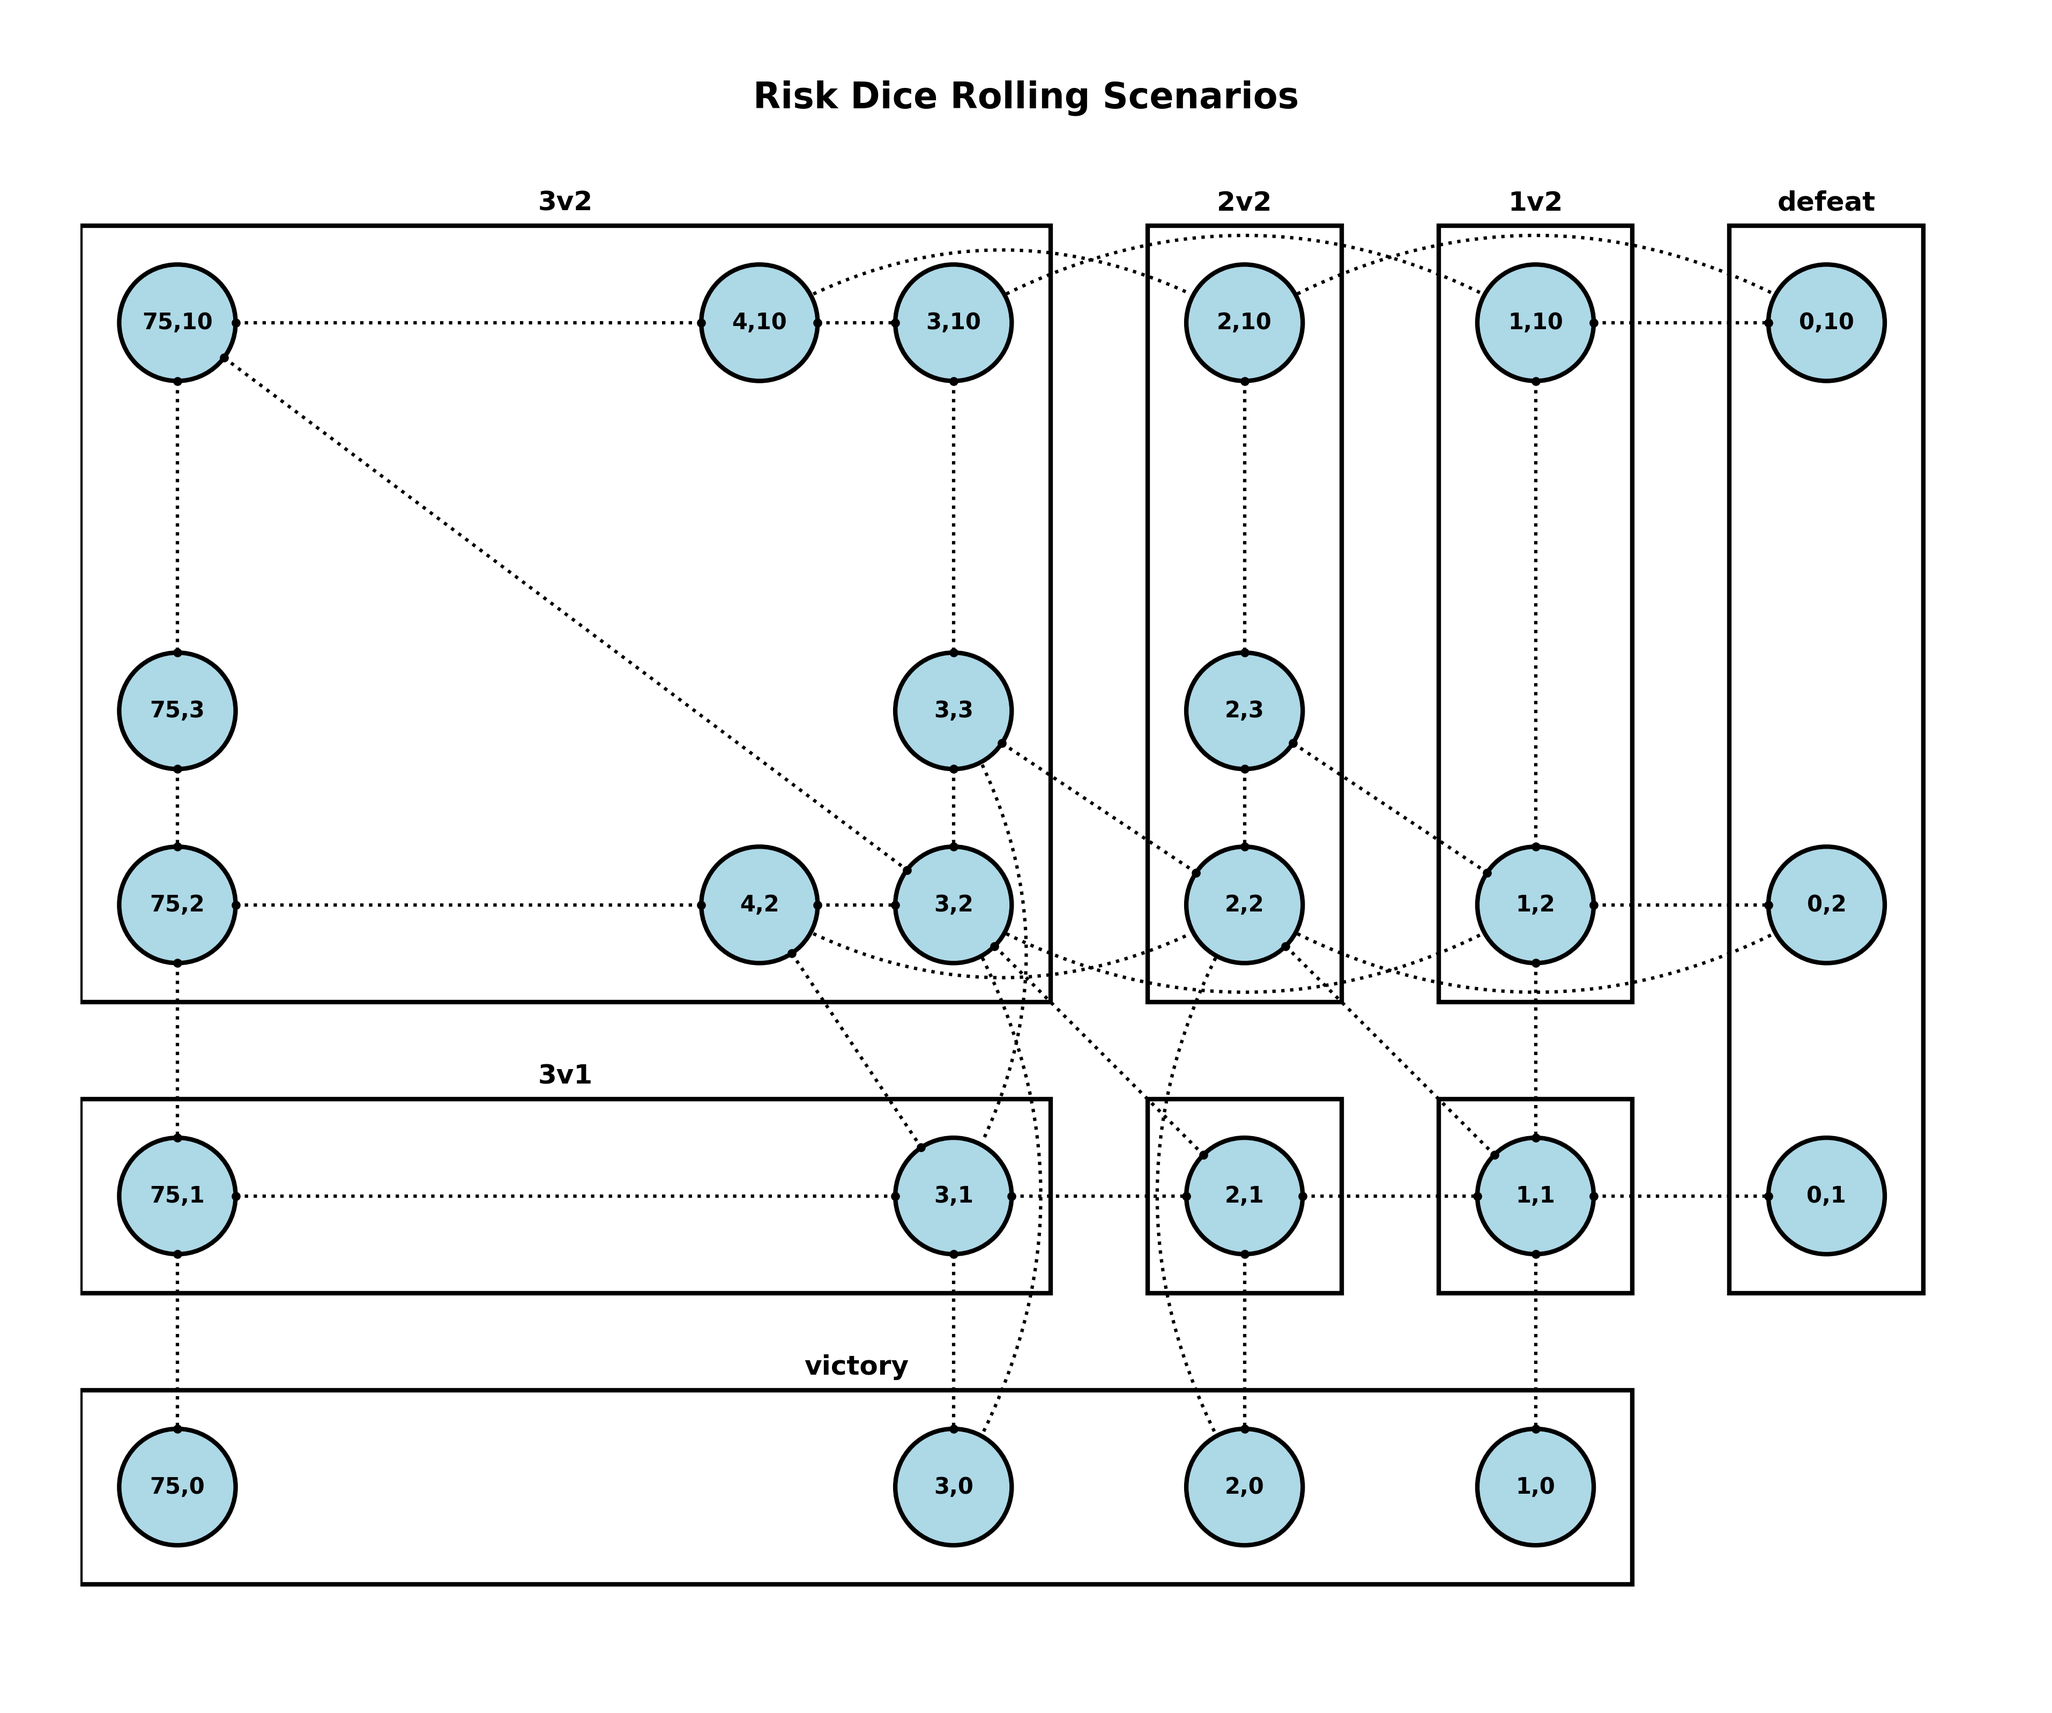
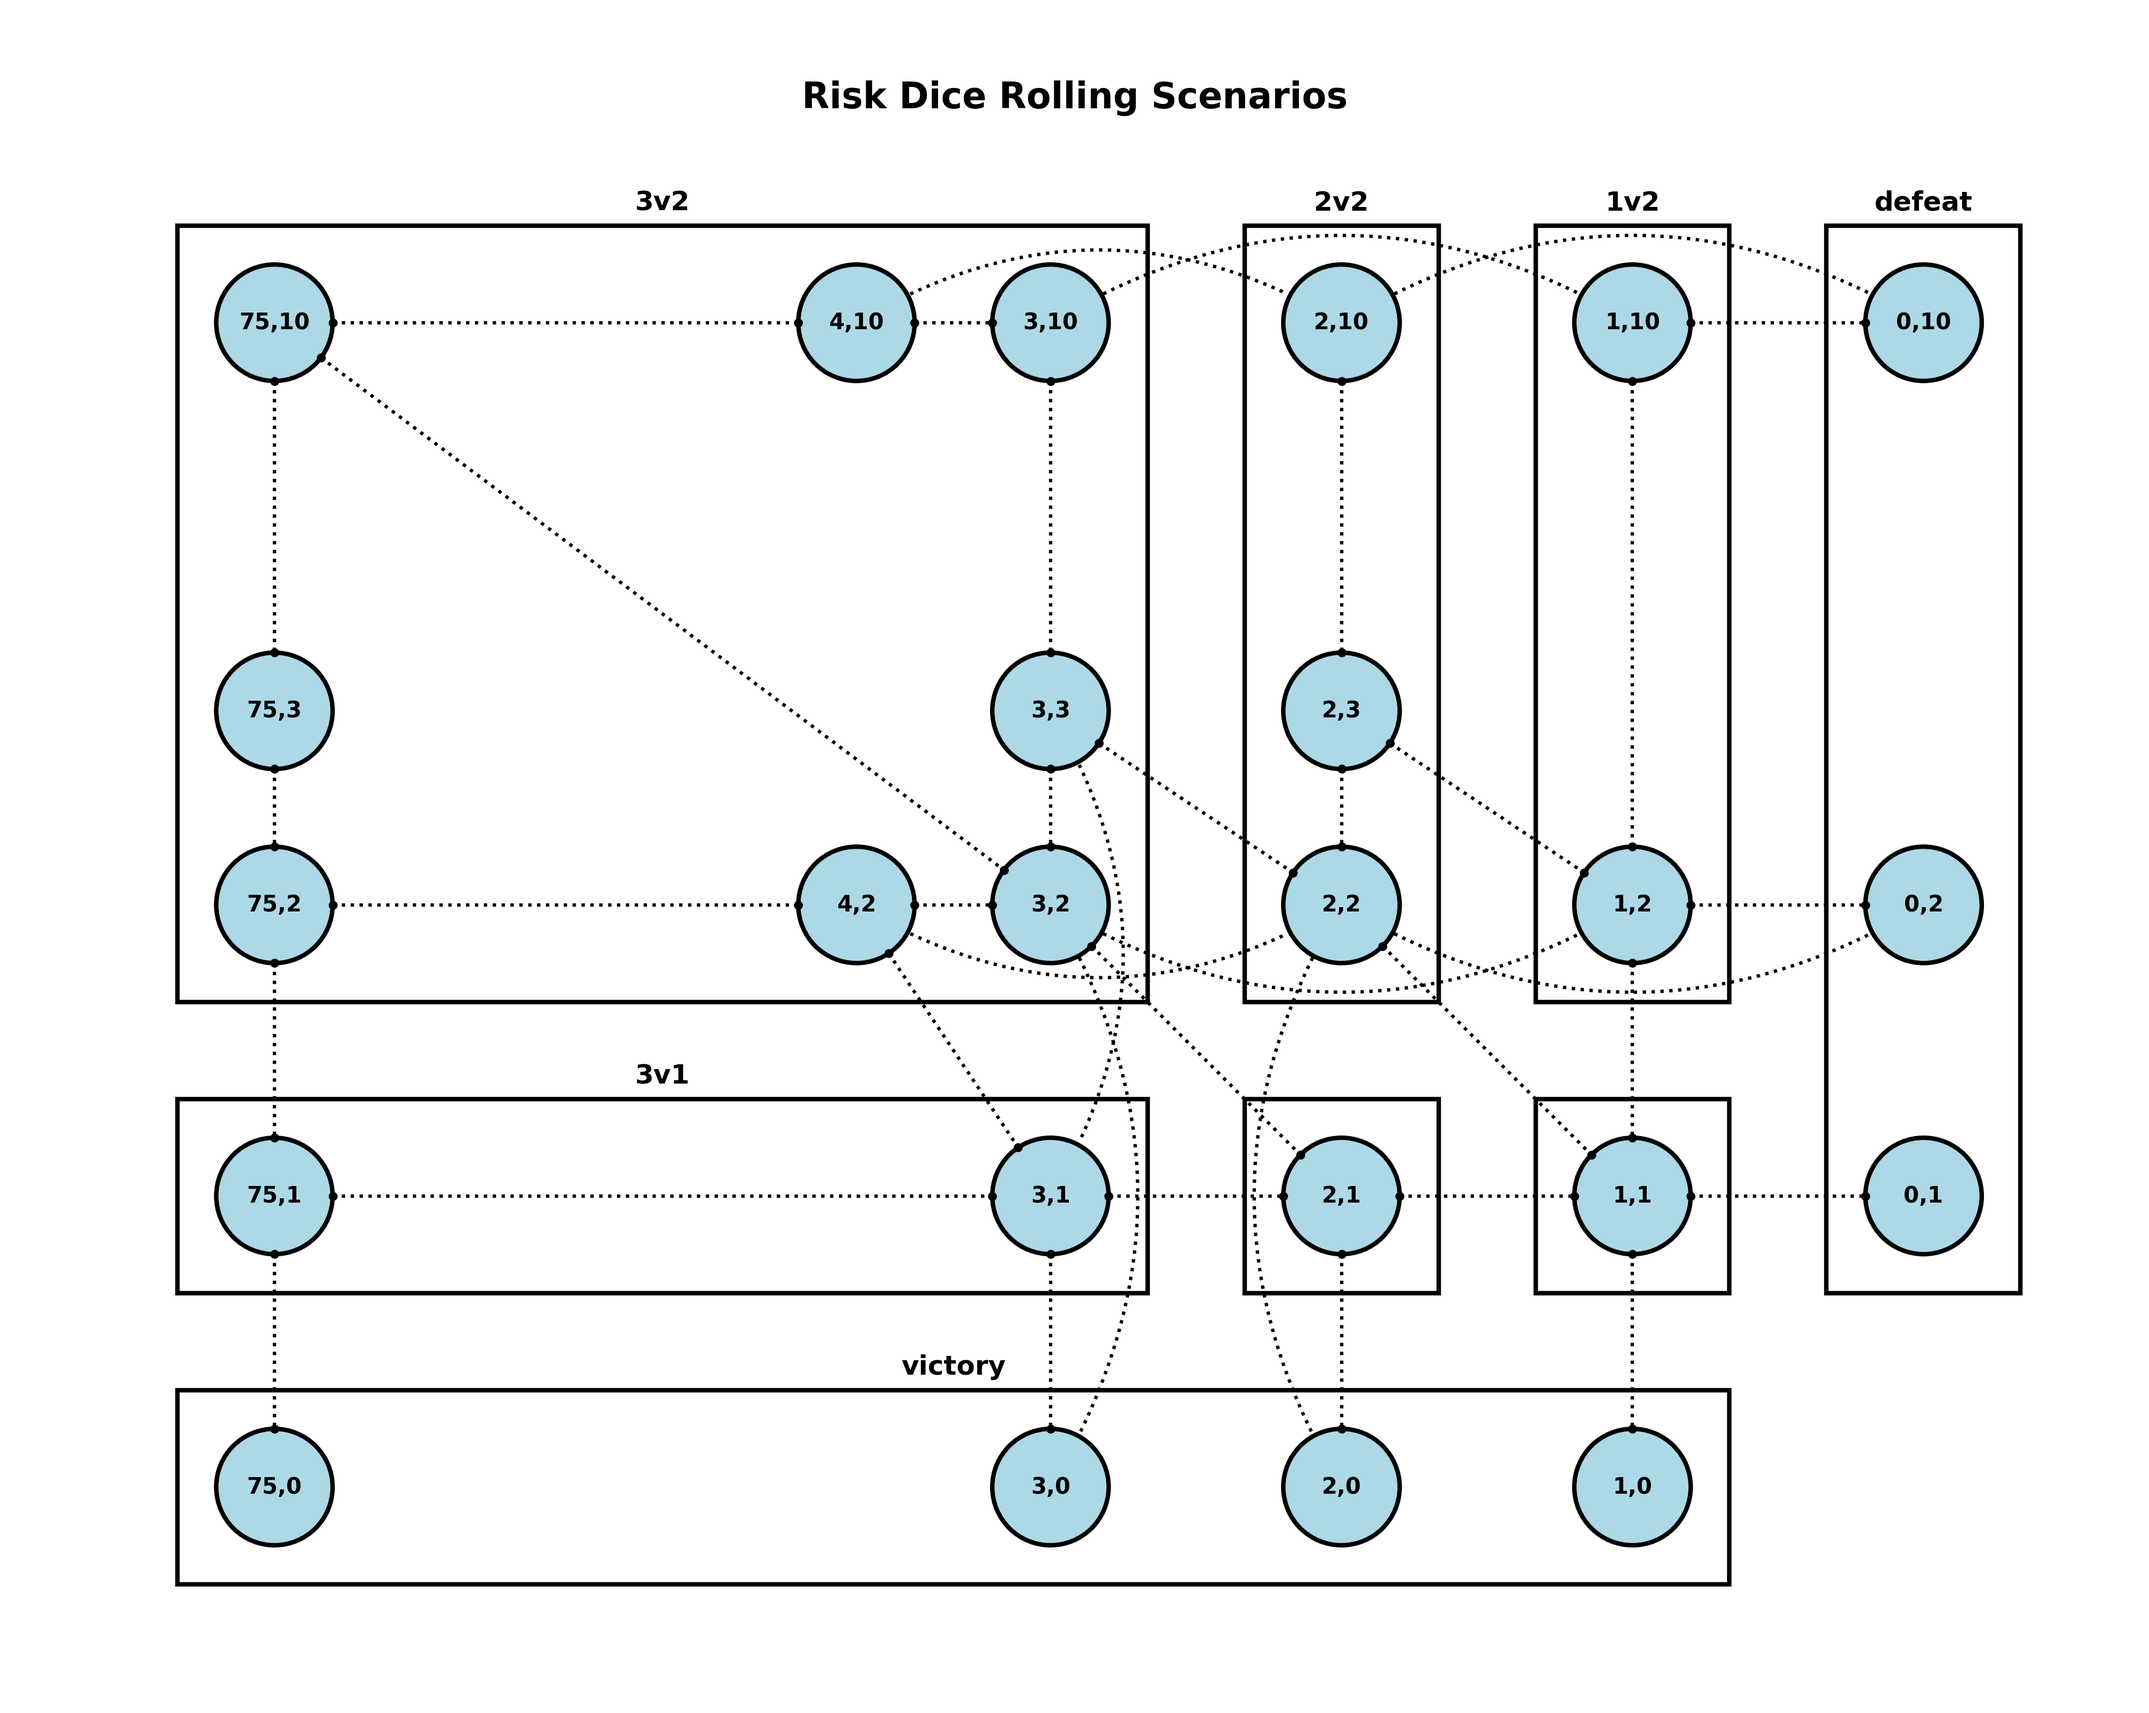
fix image boundary

diff --git a/src/risk_pspace.py b/src/risk_pspace.py
@@ -217,7 +217,7 @@ for conn in curved_connections:
 	else:
 		draw_curve(conn[0], conn[1], axes)
 
-axes.set_xlim(0.5, 10.25)
+axes.set_xlim(0, 10.25)
 axes.set_ylim(3.25, 11)
 axes.set_aspect('equal')
 axes.axis('off')
